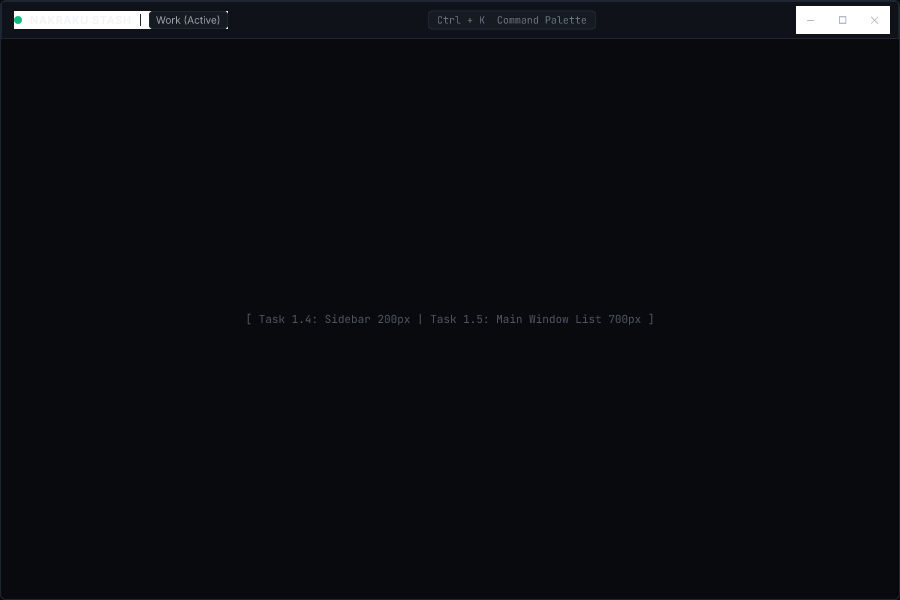
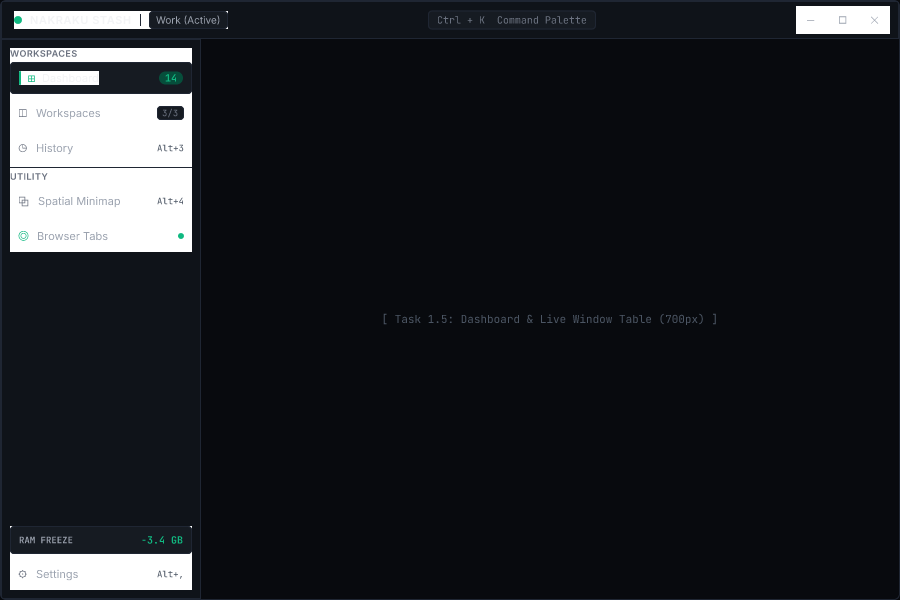
feat(phase-1): complete task 1.4 - design 200px collapsible sidebar in FigCraft

diff --git a/docs/CONTEXT.md b/docs/CONTEXT.md
@@ -124,8 +124,8 @@ Audit executed via `scripts/check-env.ps1`:
 - `[1.1]` FigCraft MCP & CLI bridge setup (verify live Antigravity MCP connection and `figcraft-cli` info on `NakrakuUI.figcraft`, page background initialized to `#080A0E`) — **DONE**
 - `[1.2]` Design Tokens in FigCraft (populated 28 variables: 16 Obsidian colors, 12 spacing/metrics, and 24 styles: 8 typography, 16 paints in `NakrakuUI.figcraft`) — **DONE**
 - `[1.3]` Canvas Artboard & 38px Titlebar (created 900x600 Desktop Window frame, 38px frameless titlebar with window controls, verified PNG render) — **DONE**
-- `[1.4]` Sidebar Navigation Frame (design 200px collapsible sidebar with nav icons) — **NEXT**
-- `[1.5]` Dashboard & Live Window Table (design 32px row window list, RAM meter, Stash CTA) — **PENDING**
+- `[1.4]` Sidebar Navigation Frame (designed 200px collapsible sidebar with 32px nav rows, badges, RAM freeze telemetry, verified PNG render) — **DONE**
+- `[1.5]` Dashboard & Live Window Table (design 32px row window list, RAM meter, Stash CTA) — **NEXT**
 - `[1.6]` Spatial Monitor Minimap (design multi-display layout visualizer) — **PENDING**
 - `[1.7]` Workspace Cards & Quick Switcher (design workspace list rows & status indicators) — **PENDING**
 - `[1.8]` Command Palette (Ctrl+K) Overlay (design search modal with fuzzy results & kbd pills) — **PENDING**

diff --git a/AGENTS.md b/AGENTS.md
@@ -19,7 +19,8 @@
   * **Task 1.1: FigCraft MCP & CLI bridge setup** — **100% COMPLETE** (Verified live MCP connection in IDE, set page background to `#080A0E`, synchronized with `NakrakuUI.figcraft`, CLI verified via `figcraft-cli info`)
   * **Task 1.2: Design Tokens in FigCraft** — **100% COMPLETE** (Populated 28 variables: 16 Obsidian colors, 12 spacing/metrics; 24 styles: 8 typography, 16 paints in `NakrakuUI.figcraft`)
   * **Task 1.3: Canvas Artboard & 38px Titlebar** — **100% COMPLETE** (Created 900x600 Desktop Window frame, 38px frameless titlebar with window controls, verified PNG render)
-* **Next Immediate Task**: Task 1.4 — Sidebar Navigation Frame (design 200px collapsible sidebar with nav icons)
+  * **Task 1.4: Sidebar Navigation Frame** — **100% COMPLETE** (Designed 200px collapsible sidebar with 32px nav rows, badges, RAM freeze telemetry, verified PNG render)
+* **Next Immediate Task**: Task 1.5 — Dashboard & Live Window Table (design 32px row window list, RAM meter, Stash CTA)
 * **Total Roadmap**: 288 tasks across 21 phases (Detailed in `nakraku_full_task_breakdown.md`)
 
 ---
